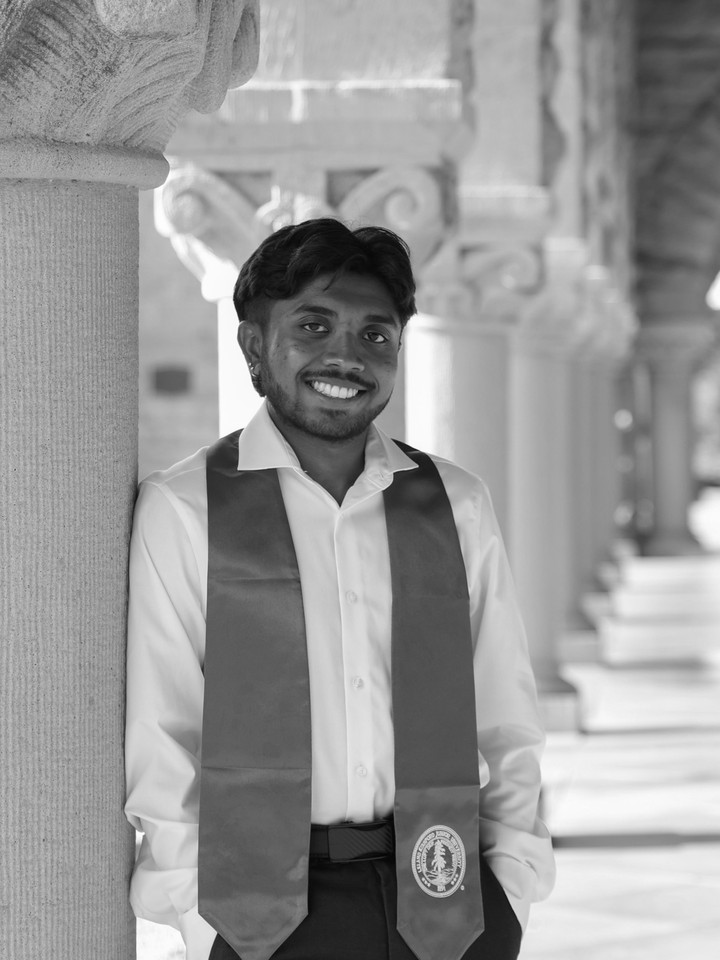
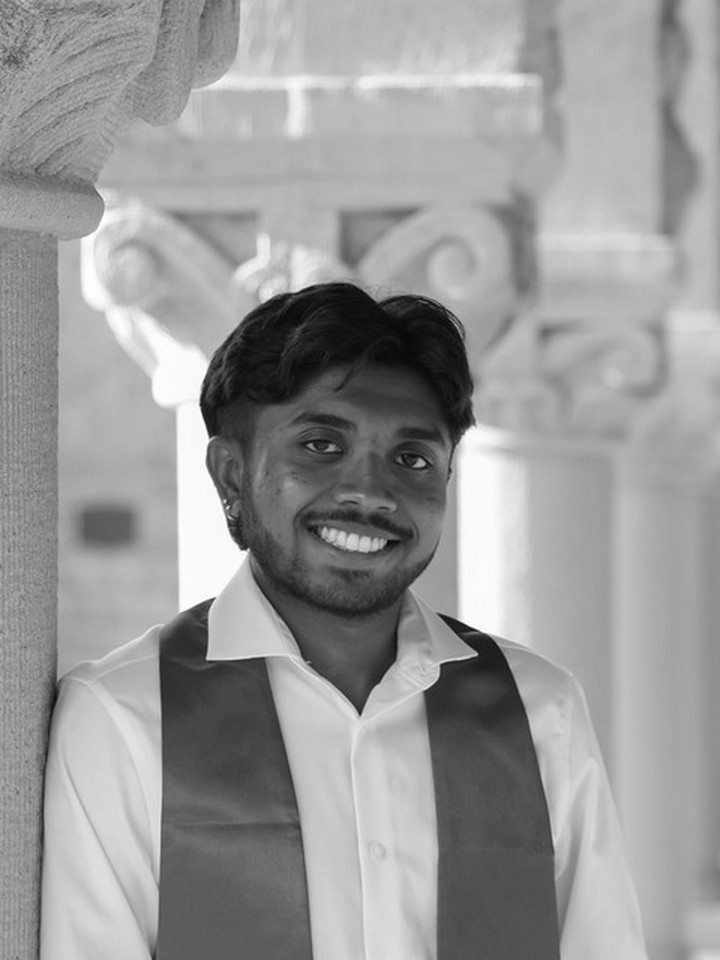
Fix team section: smaller cards, tighter photo crop, dark mode fix
- Constrain team grid to max-w-3xl so cards are smaller
- Re-crop Ashwin photo to head-and-shoulders to match others
- Use solid white background on bio modal to fix dimmed text
- Add color-scheme: light to prevent browser dark mode override

diff --git a/components/team-section.tsx b/components/team-section.tsx
@@ -52,7 +52,7 @@ function TeamCard({ member }: { member: TeamMember }) {
           onClick={() => setShowBio(false)}
         >
           <div
-            className="relative max-w-lg w-full rounded-xl bg-card p-6 shadow-xl animate-in fade-in-0 zoom-in-95 duration-200"
+            className="relative max-w-lg w-full rounded-xl bg-white p-6 shadow-xl animate-in fade-in-0 zoom-in-95 duration-200"
             onClick={(e) => e.stopPropagation()}
           >
             <button
@@ -88,7 +88,7 @@ function TeamCard({ member }: { member: TeamMember }) {
               </div>
             </div>
 
-            <p className="mt-4 text-sm leading-relaxed text-foreground">
+            <p className="mt-4 text-sm leading-relaxed text-gray-800">
               {member.bio}
             </p>
 
@@ -121,7 +121,7 @@ export function TeamSection({ content }: TeamSectionProps) {
           </h2>
         </div>
 
-        <div className="mt-14 grid gap-6 grid-cols-2 md:grid-cols-3">
+        <div className="mt-14 mx-auto max-w-3xl grid gap-6 grid-cols-2 md:grid-cols-3">
           {content.members.map((member) => (
             <TeamCard key={member.name} member={member} />
           ))}

diff --git a/app/globals.css b/app/globals.css
@@ -4,6 +4,7 @@
 @custom-variant dark (&:is(.dark *));
 
 :root {
+  color-scheme: light;
   --background: oklch(0.97 0.005 80);
   --foreground: oklch(0.20 0.02 50);
   --card: oklch(0.99 0.003 80);
